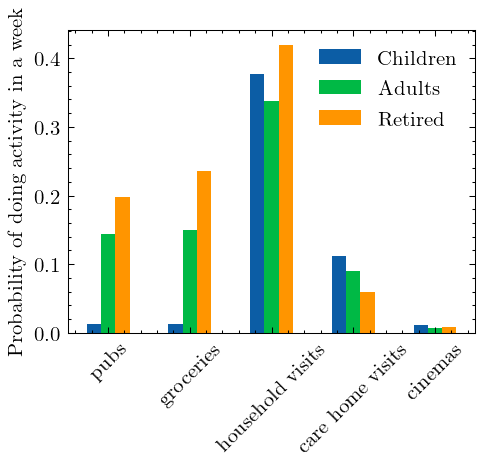
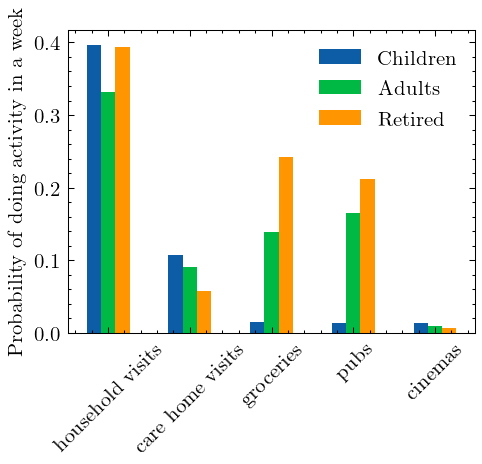
adding time spent and now running all

diff --git a/plots/scripts/leisure/leisure_plots.py b/plots/scripts/leisure/leisure_plots.py
@@ -18,52 +18,59 @@ class LeisurePlots:
     def __init__(self, world):
         self.world = world
 
+    def run_poisson_process(
+            self,
+    ):
+        probabilities_dict = parse_multiple_config_files()
+        self.time_spent_in_leisure, self.ret_child, self.ret_adult, self.ret_retired = simulate_leisure_week(probabilities_dict)
+
     def plot_week_probabilities(
             self,
     ):
         "Plotting probabaility of doing different activities in a week"
-
-        probabilities_dict = parse_multiple_config_files()
-        time_spent_in_leisure, ret_child, ret_adult, ret_retired = simulate_leisure_week(probabilities_dict)
 
         activities = []
         new_activities = []
         child_probability = []
         adult_probability = []
         retired_probability = []
-        for activity in ret_adult:
+        for activity in self.ret_adult:
             activities.append(activity)
             new_activities.append(activity.replace("_", " "))
-            adult_probability.append(ret_adult[activity])
+            adult_probability.append(self.ret_adult[activity])
             try:
-                child_probability.append(ret_child[activity])
+                child_probability.append(self.ret_child[activity])
             except:
                 child_probability.append(0.)
-            retired_probability.append(ret_retired[activity])
-
-        
-    
+            retired_probability.append(self.ret_retired[activity])
 
         x = np.arange(len(activities))  # the label locations
         width = 0.35  # the width of the bars
 
-        f_1, ax_1 = plt.subplots()
-        ax_.bar(x - width/2, child_probability, width/2, label = 'Children')
-        ax_1.bar(x, adult_probability, width/2, label = 'Adults')
-        ax_1.bar(x + width/2, retired_probability, width/2, label = 'Retired')
-        ax_1.set_ylabel('Probability of doing activity in a week')
-        ax_1.set_xticks(x)
-        ax_1.set_xticklabels(new_activities)
-        ax_1.legend()
+        f, ax = plt.subplots()
+        ax.bar(x - width/2, child_probability, width/2, label = 'Children')
+        ax.bar(x, adult_probability, width/2, label = 'Adults')
+        ax.bar(x + width/2, retired_probability, width/2, label = 'Retired')
+        ax.set_ylabel('Probability of doing activity in a week')
+        ax.set_xticks(x)
+        ax.set_xticklabels(new_activities)
+        ax.legend()
         plt.xticks(rotation=45)
 
-        f_2, ax_2 = plt.subplots()
-        ax_2.bar(time_spent_in_leisure.keys(), time_spent_in_leisure.values())
-        ax_2.axvline(65, color = "red", linestyle=":")
-        ax_2.set_ylabel("Hours of leisure a week")
-        ax_2.set_xlabel("Age")
+        return ax
 
-        return ax_1, ax_2
+    def plot_leisure_time_spent(
+            self
+    ):
+        "Plotting time spent in leisure by age"
+        
+        f, ax = plt.subplots()
+        ax.bar(self.time_spent_in_leisure.keys(), self.time_spent_in_leisure.values())
+        ax.axvline(65, color = "red", linestyle=":")
+        ax.set_ylabel("Hours of leisure a week")
+        ax.set_xlabel("Age")
+
+        return ax
 
 def parse_config_file(config_file_path):
     with open(config_file_path) as f:
@@ -127,8 +134,7 @@ def simulate_leisure_week(probabilities_dict):
     retired_activities = defaultdict(list)
     
     ages = np.arange(0,100)
-    for i in range(20):
-        print ('Working on week {}'.format(i))
+    for i in tqdm(range(50)):
         time_spent_in_leisure_week = defaultdict(int)
         child_activities_week = defaultdict(int)
         adult_activities_week = defaultdict(int)

diff --git a/plots/scripts/master_plotter.py b/plots/scripts/master_plotter.py
@@ -49,13 +49,19 @@ class Plotter:
 
         leisure_plots = LeisurePlots(self.world)
 
+        print ("Running poisson process")
+        leisure_plots.run_poisson_process()
+
         print ("Plotting week probabilities")
-        week_probabilities_plot, time_spent_plot = leisure_plots.plot_week_probabilities()
+        week_probabilities_plot = leisure_plots.plot_week_probabilities()
         week_probabilities_plot.plot()
         plt.savefig(save_dir + 'week_probabilities.png', dpi=150, bbox_inches='tight')
-
-        time_spent.plot()
-        plt.savefig(save_dir + 'time_spent.png', dpi=150, bbox_inches='tight')
+        
+        plt.clf()
+        print ("Plotting leisure time spent")
+        leisure_time_spent_plot = leisure_plots.plot_leisure_time_spent()
+        leisure_time_spent_plot.plot()
+        plt.savefig(save_dir + 'leisure_time_spent.png', dpi=150, bbox_inches='tight')
         
     def plot_policies(
             self,
